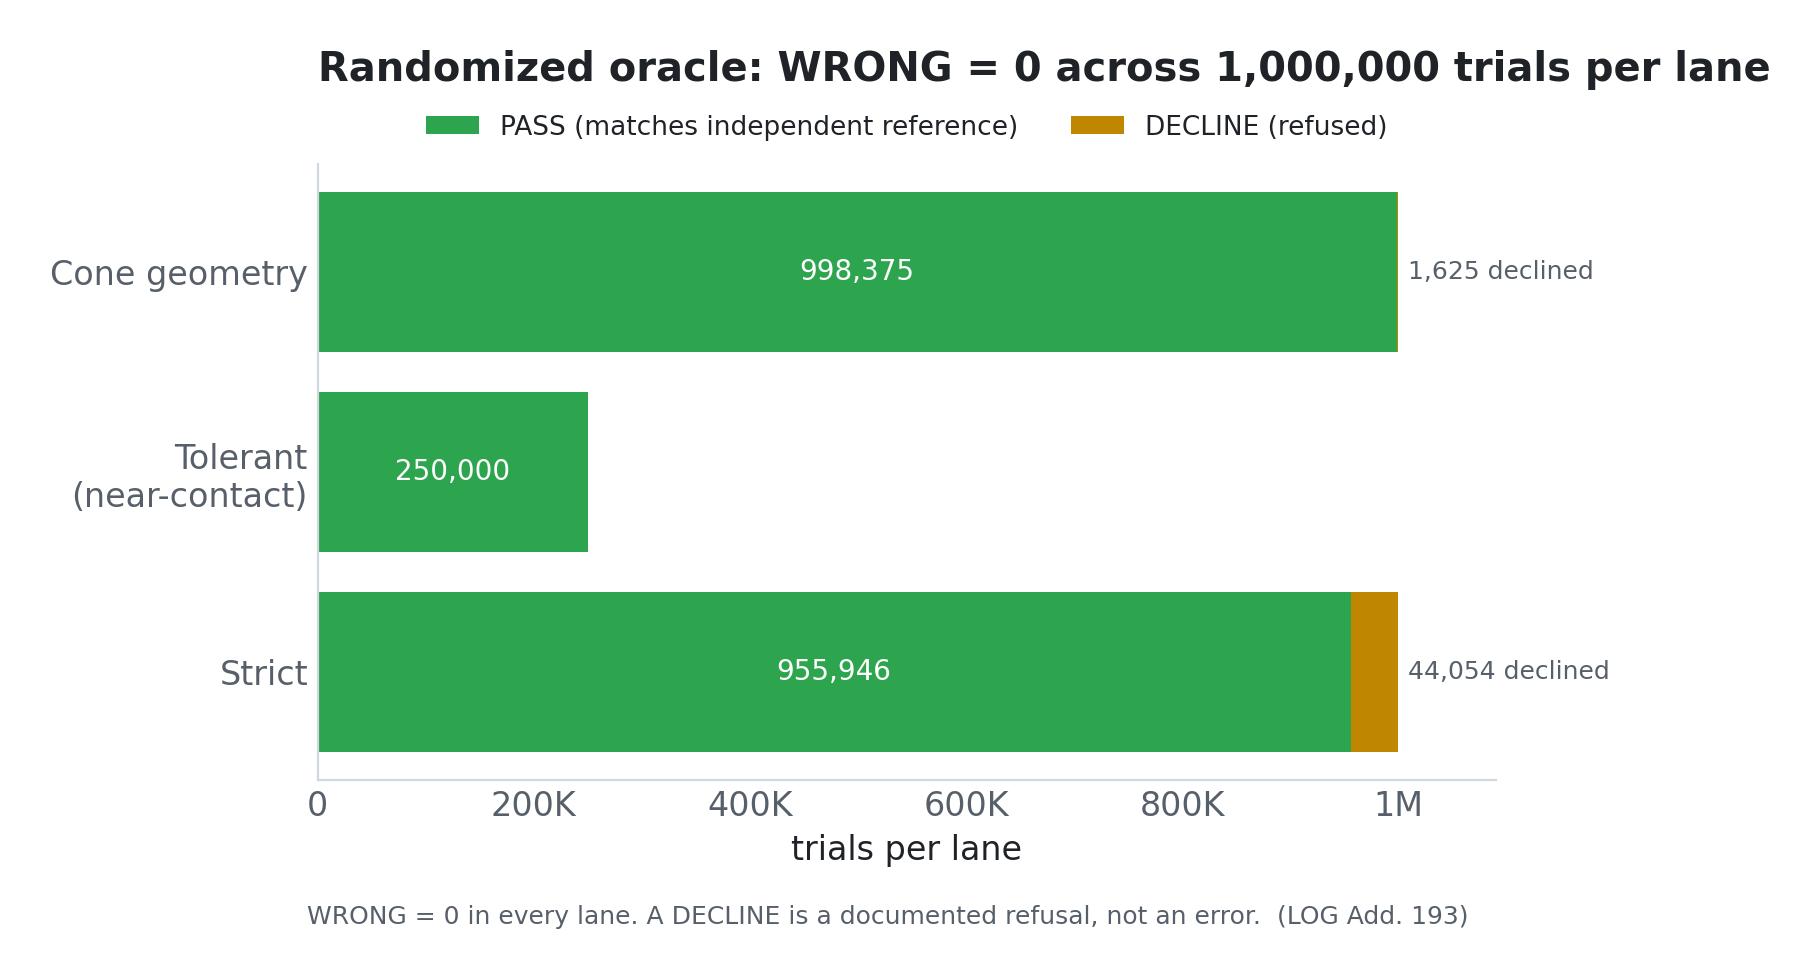
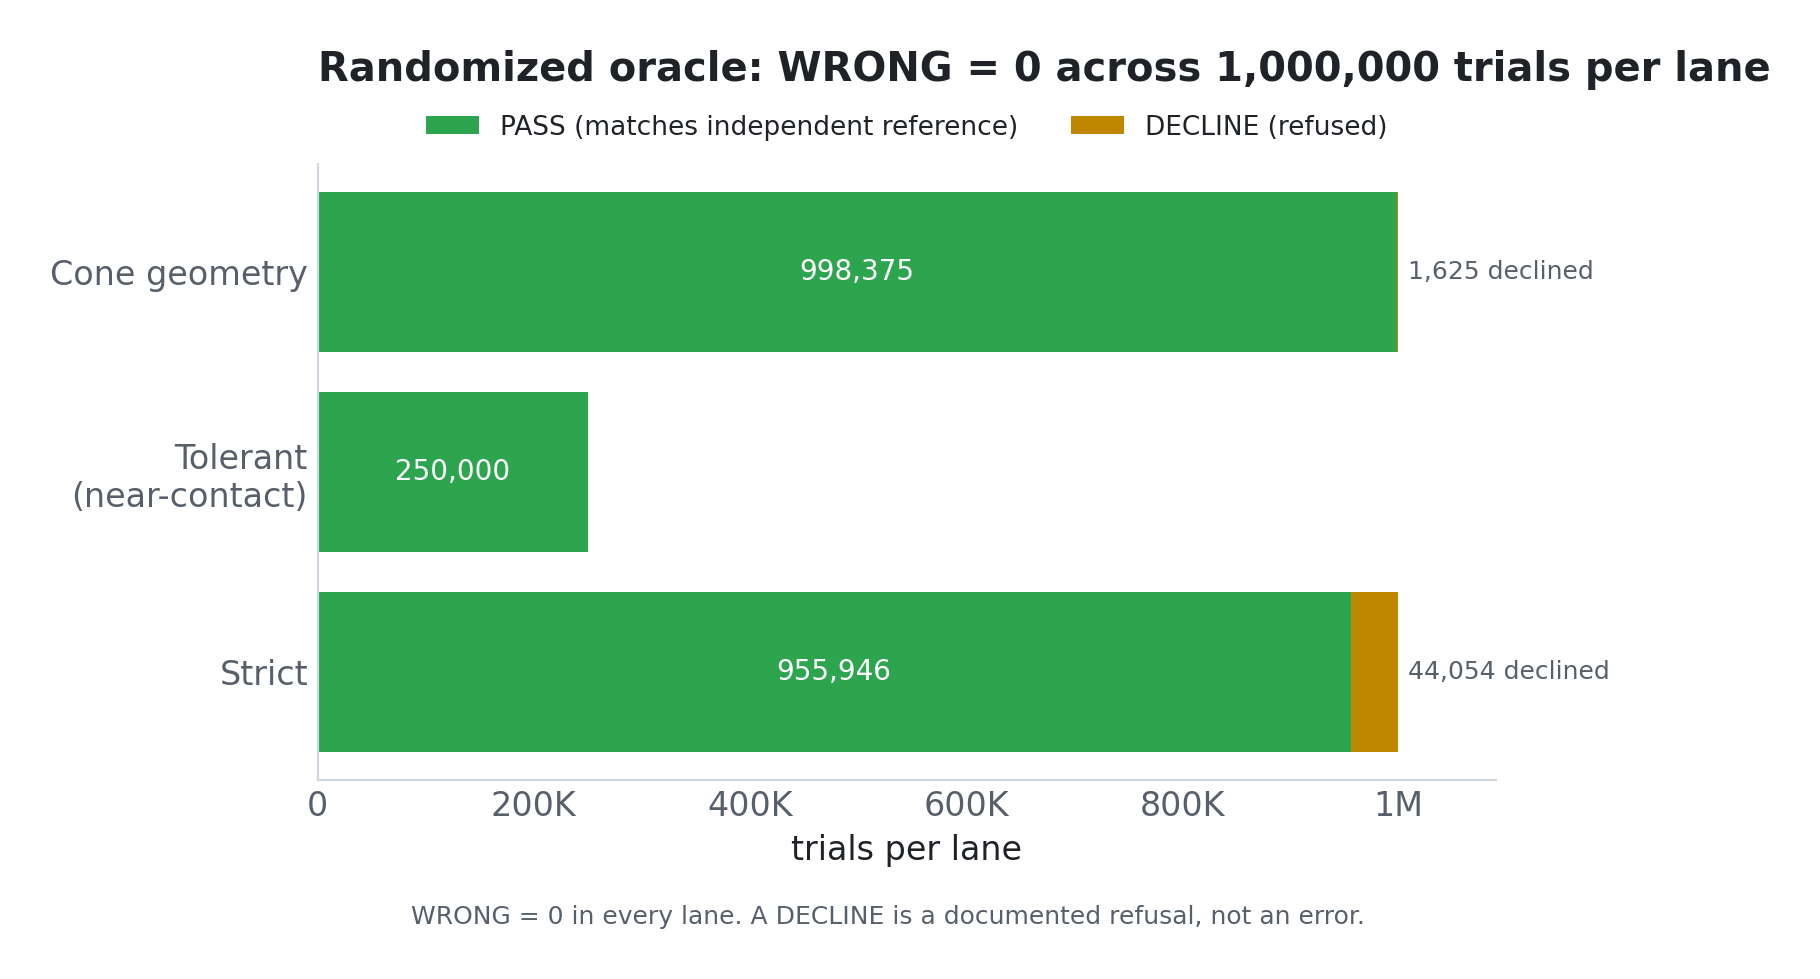
docs: scrub LOG.md references after making it private
Drop the dead LOG.md links (README, ARCHITECTURE), reword the 'traces to a
LOG.md addendum' premise to 'reproducible from the test suite', remove the
date stamp and the reading-further entry, and strip the LOG cites baked into
the chart captions (charts regenerated). Inline dateless (LOG Add N) cites left
as harmless internal refs.

Changed region(s): [[0.1538, 0.9193, 0.8, 0.9499]]

diff --git a/docs/media/render_charts.py b/docs/media/render_charts.py
@@ -66,7 +66,7 @@ def save(fig, name):
     print("wrote", path)
 
 
-# --- 1. Randomized oracle: WRONG = 0 across 1,000,000 trials per lane (LOG Add 193) ---
+# --- 1. Randomized oracle: WRONG = 0 across 1,000,000 trials per lane ---
 def chart_oracle():
     lanes = ["Strict", "Tolerant\n(near-contact)", "Cone geometry"]
     passes = [955946, 250000, 998375]
@@ -91,12 +91,12 @@ def chart_oracle():
     ax.legend(loc="lower center", bbox_to_anchor=(0.5, 1.0), ncol=2,
               frameon=False, fontsize=9.5)
     fig.text(0.5, -0.07,
-             "WRONG = 0 in every lane. A DECLINE is a documented refusal, not an error.  (LOG Add. 193)",
+             "WRONG = 0 in every lane. A DECLINE is a documented refusal, not an error.",
              ha="center", color=MUTED, fontsize=9)
     save(fig, "chart-oracle.png")
 
 
-# --- 2. Faithful tutorial workflows: 10 / 12 pass (LOG Add 302-303) ---
+# --- 2. Faithful tutorial workflows: 10 / 12 pass ---
 def chart_tutorial():
     labels = [
         "Union + fillet seam", "Difference + concave fillet", "Single chamfer",
@@ -123,12 +123,12 @@ def chart_tutorial():
     ax.spines["left"].set_visible(False)
     fig.text(0.5, -0.02,
              "Real workflow structures, fixed parameters, asserted watertight + mass == mesh.  "
-             "2 deferred = a deep corner-surgery follow-up and a missing feature.  (LOG Add. 302-303)",
+             "2 deferred = a deep corner-surgery follow-up and a missing feature.",
              ha="center", color=MUTED, fontsize=8.5)
     save(fig, "chart-tutorial.png")
 
 
-# --- 3. Realistic-workflow soak: 8,039 / 10,000 pass, 0 wrong (LOG Add 303) ---
+# --- 3. Realistic-workflow soak: 8,039 / 10,000 pass, 0 wrong ---
 def chart_realsoak():
     vals = [8039, 1961, 0]
     names = ["PASS", "DECLINE", "WRONG"]
@@ -146,12 +146,12 @@ def chart_realsoak():
     ax.legend(wedges, legend_lbls, loc="lower center", ncol=3, frameon=False,
               bbox_to_anchor=(0.5, -0.10), fontsize=10)
     fig.text(0.5, 0.005,
-             "Grammar-driven long op-chains from 113 tutorials. A DECLINE is refusal, never a wrong body.  (LOG Add. 303)",
+             "Grammar-driven long op-chains from 113 tutorials. A DECLINE is refusal, never a wrong body.",
              ha="center", color=MUTED, fontsize=8.5)
     save(fig, "chart-realsoak.png")
 
 
-# --- 4. Decline provenance: most fuzzer declines are impossible-input noise (LOG Add 300) ---
+# --- 4. Decline provenance: most fuzzer declines are impossible-input noise ---
 def chart_provenance():
     fig, ax = plt.subplots(figsize=(7.6, 2.4))
     real = 29.8  # REAL 30,092 of (30,092 + 70,729); round down to 29.8%
@@ -171,12 +171,12 @@ def chart_provenance():
     _clean(ax)
     ax.spines["left"].set_visible(False)
     fig.text(0.5, -0.14,
-             "A classifier separates real gaps (sound watertight input + sensible op) from impossible random inputs.  (LOG Add. 300)",
+             "A classifier separates real gaps (sound watertight input + sensible op) from impossible random inputs.",
              ha="center", color=MUTED, fontsize=8.5)
     save(fig, "chart-provenance.png")
 
 
-# --- 5. Verification scale callout (LOG Add 193, 303) ---
+# --- 5. Verification scale callout ---
 def chart_scale():
     fig, ax = plt.subplots(figsize=(10.0, 2.2))
     ax.axis("off")

diff --git a/README.md b/README.md
@@ -22,8 +22,8 @@ The kernel's defining property is a measured error contract, not a feature count
 **every operation either produces a verified result or explicitly declines, and the
 "wrong" outcome is held at zero** across every test lane. The figures below are
 generated directly from the kernel's own test output by
-[`docs/media/render_charts.py`](docs/media/render_charts.py); every number traces to a
-numbered addendum in [`LOG.md`](LOG.md).
+[`docs/media/render_charts.py`](docs/media/render_charts.py), and every number is
+reproducible from the test suite.
 
 ![Verification scale: 2.4 billion-plus fuzz executions with zero crashes, 1,000,000 randomized oracle trials per lane with zero wrong, 10,000 realistic projects with zero wrong, and zero wrong results in any lane](docs/media/chart-scale.png)
 
@@ -396,7 +396,7 @@ fn main() {
 
 The milestones below follow the sequence established in the architecture spec
 (`docs/superpowers/specs/2026-06-07-keel-kernel-architecture-design.md`).
-Status is approximate; read `LOG.md` for the current anchor.
+Status is approximate.
 
 | Milestone | Description | Status |
 |---|---|---|

diff --git a/docs/CAPABILITIES.md b/docs/CAPABILITIES.md
@@ -5,9 +5,8 @@ declines, and the guarantee that backs both. It complements the capability matri
 `README.md` by going deeper on the **limitations frontier**: where the kernel refuses,
 why, and how that refusal is kept safe.
 
-Every quantitative claim here traces to a numbered addendum in `LOG.md`. Numbers are
-reported conservatively; a DECLINE is a documented outcome, not a defect. Status as of
-LOG Addendum 303 (kernel snapshot 2026-06-20).
+Every quantitative claim here is reproducible from the test suite (commands at the end).
+Numbers are reported conservatively; a DECLINE is a documented outcome, not a defect.
 
 ---
 
@@ -209,6 +208,5 @@ fails the suite.
 - `README.md` — the capability matrix (shipped/partial/declined), the honesty contract, the
   demo gallery, quickstart.
 - `docs/ARCHITECTURE.md` — how the kernel is built (data structures, pipelines, algorithms).
-- `LOG.md` — the engineering log; every claim here cites an addendum number.
 - `docs/research/kernel/` — the dossiers behind each frontier fix.
 - `docs/research/kernel/tutorial-workflows-FINDINGS.md` — the per-workflow tutorial findings.

diff --git a/docs/ARCHITECTURE.md b/docs/ARCHITECTURE.md
@@ -10,7 +10,7 @@ high-level crate roles). It complements rather than repeats that prose:
 expect data-model detail, pipeline stages, and algorithm sketches here. For
 the operation surface and status legend see the README capabilities tables
 and [`docs/PARITY_OPS.md`](PARITY_OPS.md); for the running engineering
-narrative and the per-decision rationale see [`LOG.md`](../LOG.md) and
+narrative and the per-decision rationale see
 [`docs/ENGINEERING-LOG.md`](ENGINEERING-LOG.md).
 
 Every type, function, and module named below was verified against the source
@@ -658,6 +658,6 @@ trajectories. That composition is how DECLINE-never-WRONG is held.
   limitations frontier: the faithful tutorial scoreboard, the decline taxonomy,
   and the WRONG=0 evidence chain.
 - [`docs/PARITY_OPS.md`](PARITY_OPS.md) -- the operation parity matrix.
-- [`LOG.md`](../LOG.md) and [`docs/ENGINEERING-LOG.md`](ENGINEERING-LOG.md) --
+- [`docs/ENGINEERING-LOG.md`](ENGINEERING-LOG.md) --
   the running engineering narrative, per-decision rationale, and the current
   anchor.
